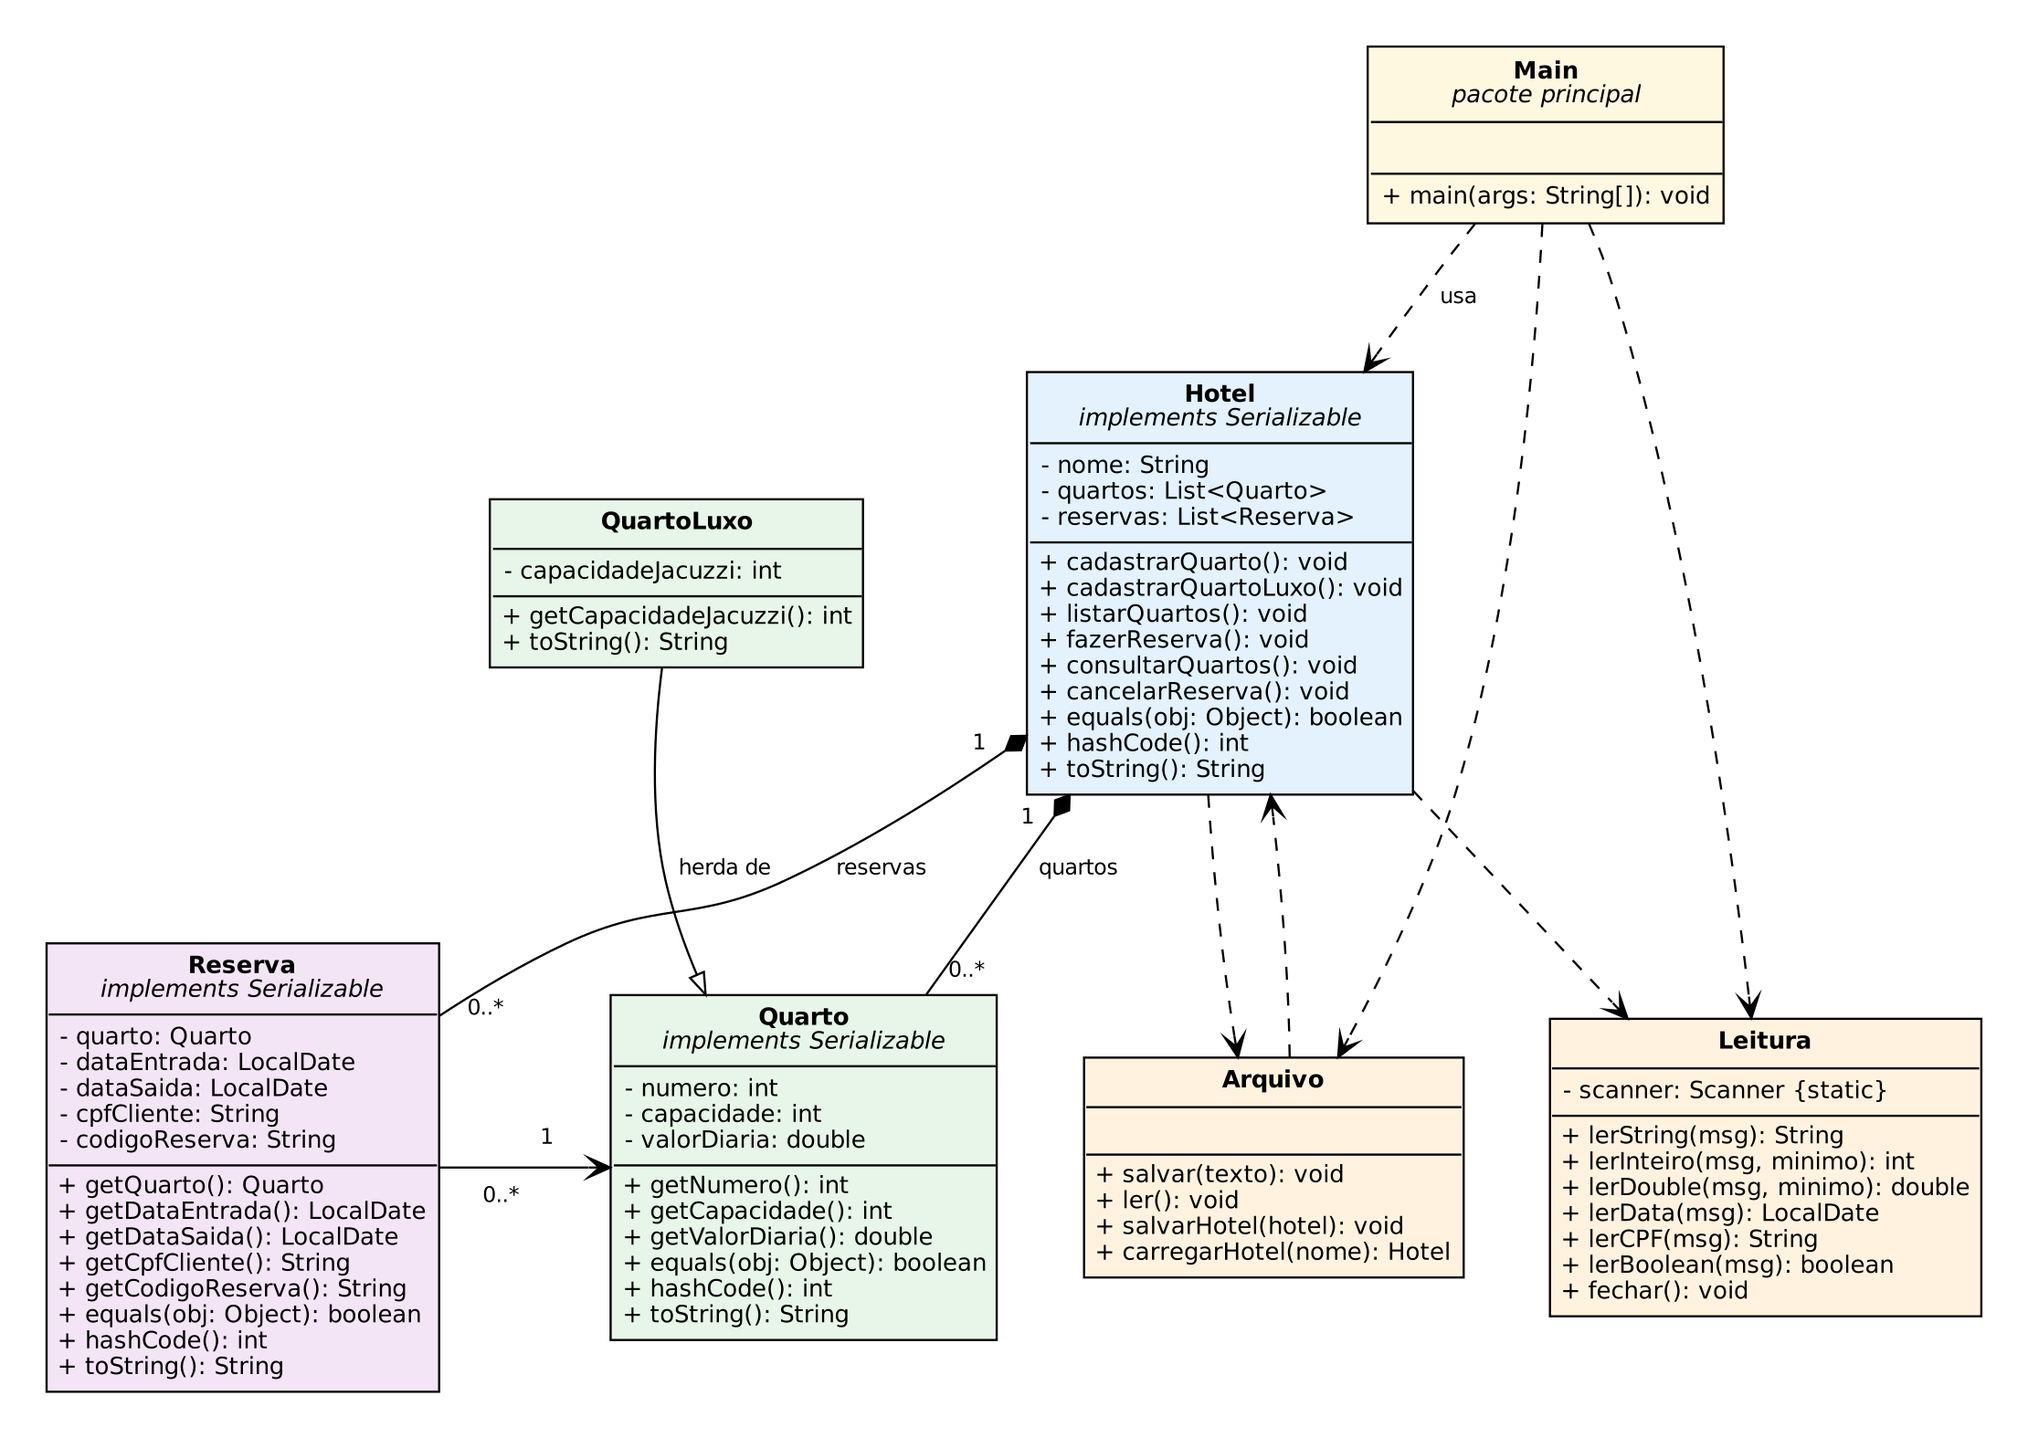
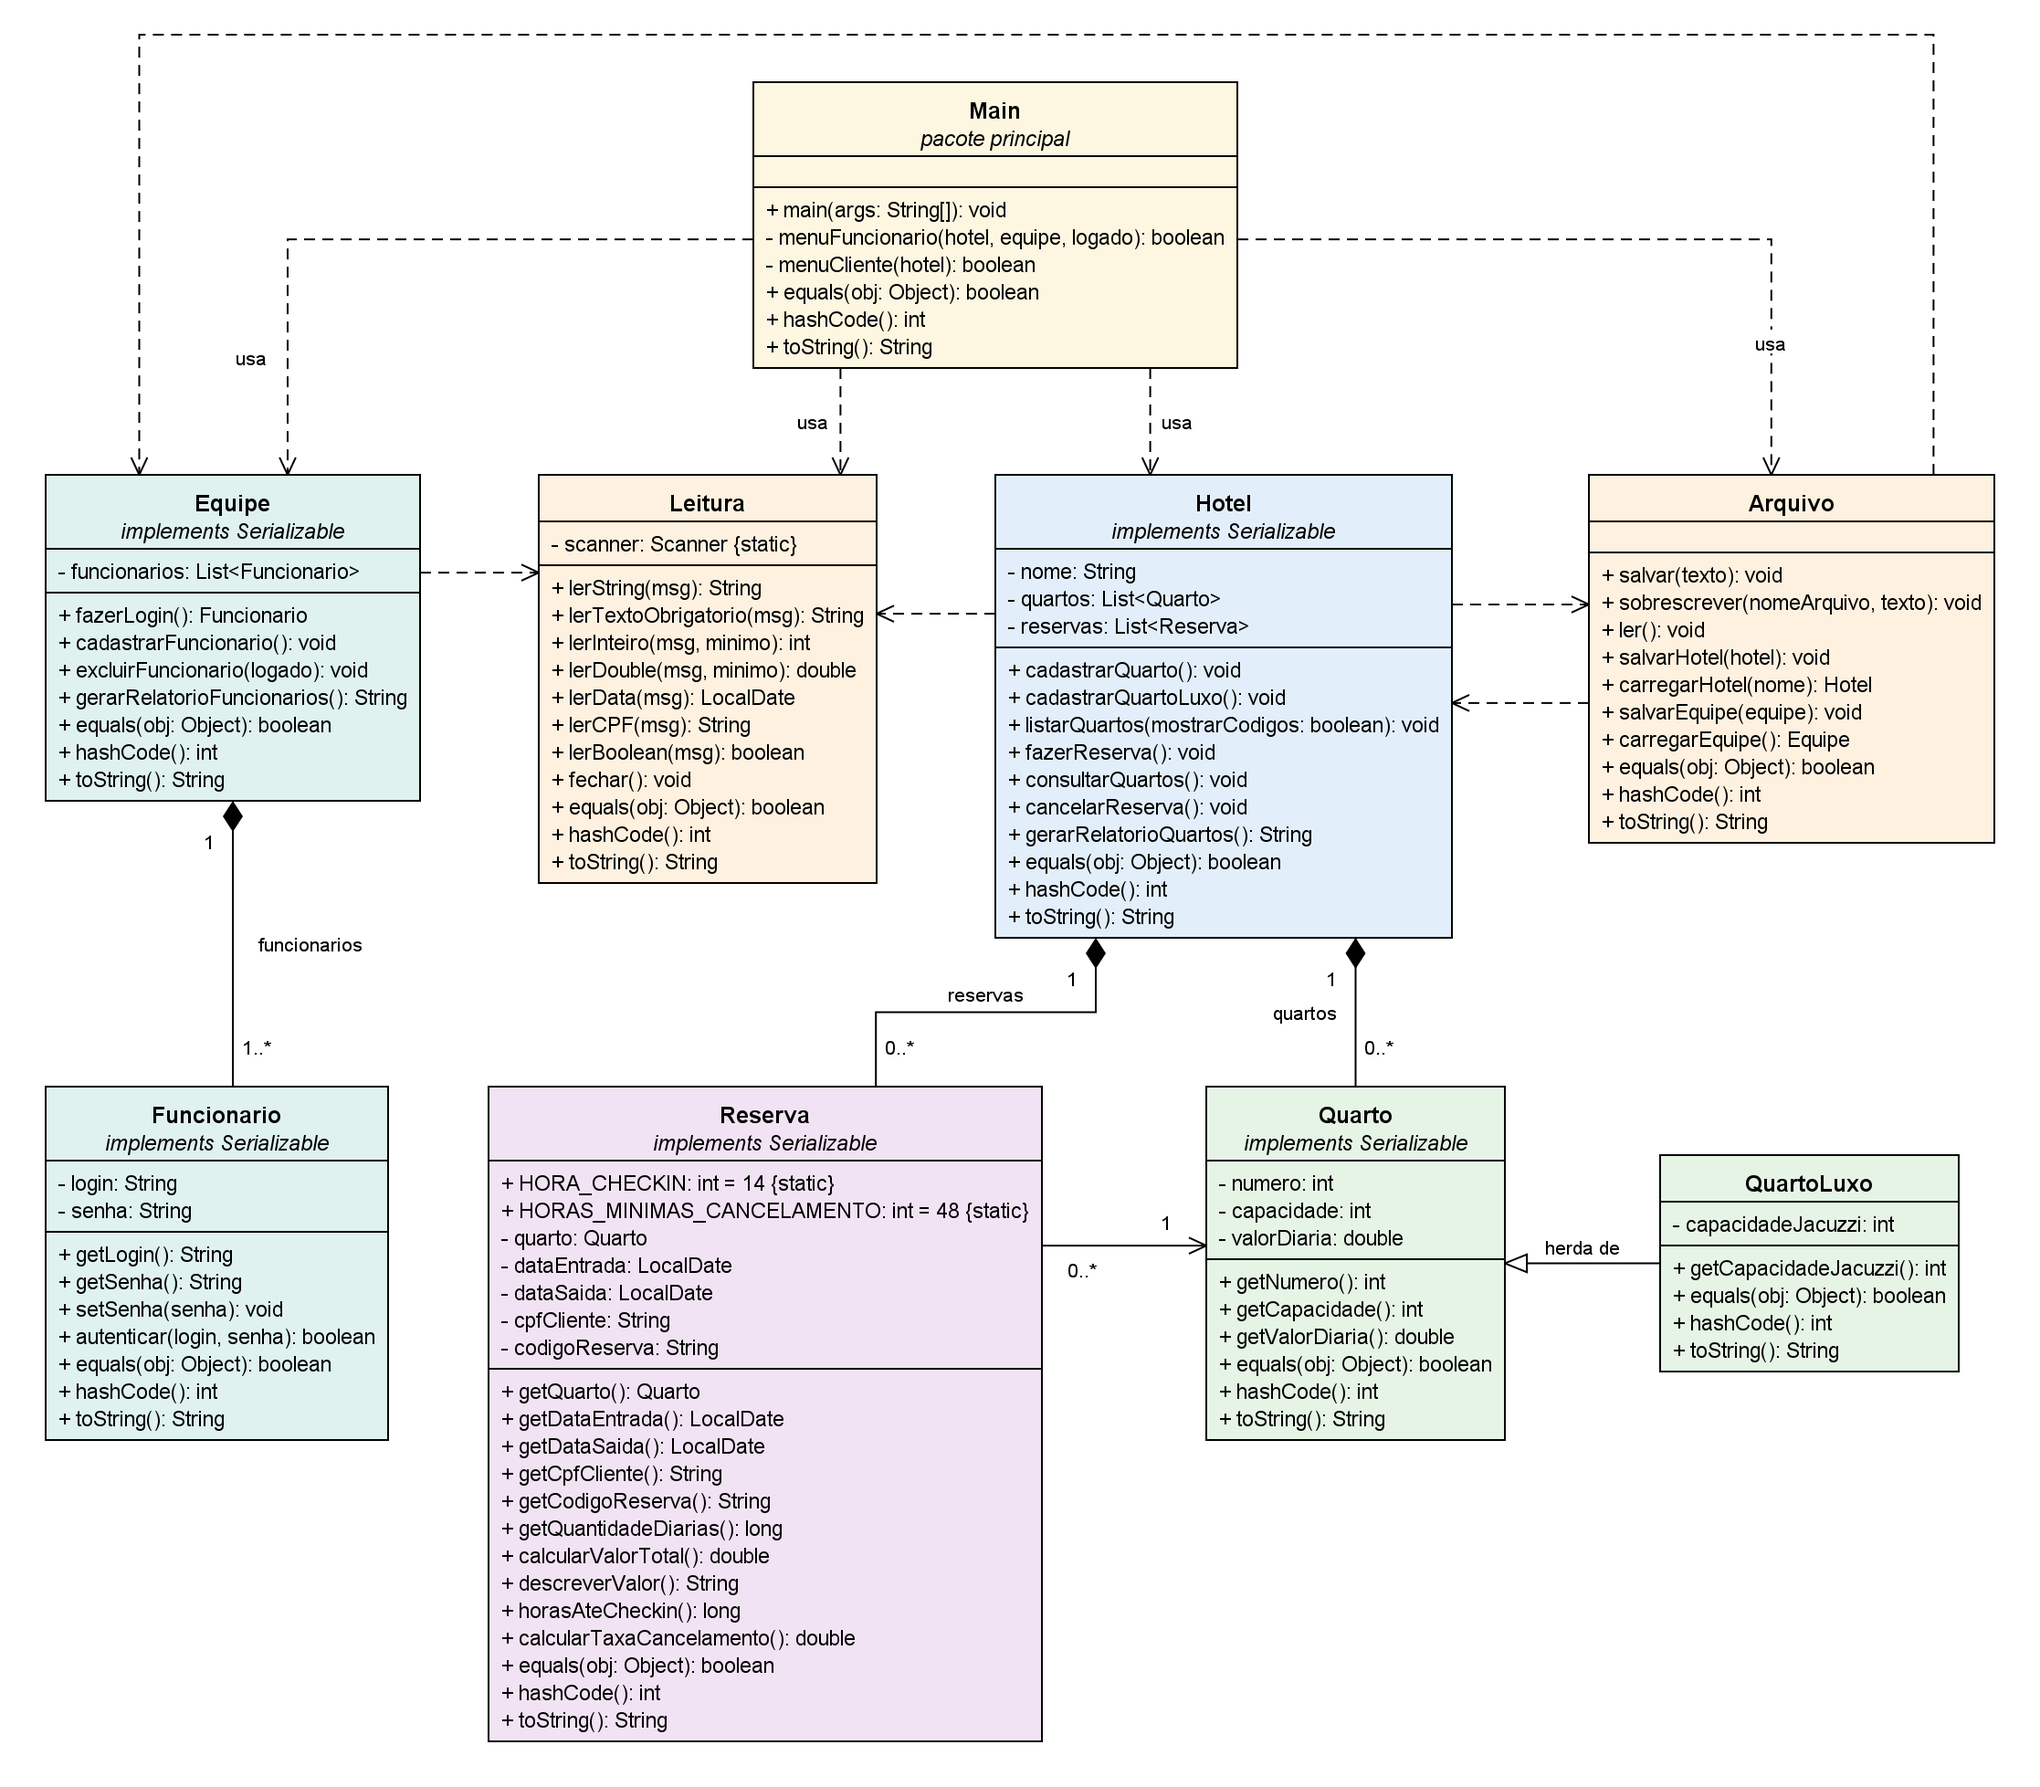
Atualiza README e diagrama de classes

diff --git a/README.md b/README.md
@@ -2,55 +2,95 @@
 
 Projeto de conclusão da disciplina **Linguagem de Programação II (LPII)**.
 
-Aplicação de console desenvolvida em Java e baseada nos princípios da **Programação Orientada a Objetos (POO)**. O sistema tem como objetivo auxiliar a recepção de uma pousada no gerenciamento de quartos e reservas, permitindo cadastros, consultas, listagens e cancelamentos.
+Aplicação de console desenvolvida em Java e baseada nos princípios da **Programação Orientada a Objetos (POO)**. O sistema auxilia uma pousada no gerenciamento de quartos, reservas e funcionários, com áreas separadas para **funcionários** (acesso com login e senha) e **clientes**.
 
 Os dados são armazenados em arquivo e recuperados automaticamente quando o programa é iniciado novamente.
 
 ## Funcionalidades
 
+Ao iniciar, o sistema pergunta se o usuário é funcionário ou cliente:
+
+| Opção | Perfil | Descrição |
+|:---:|---|---|
+| 1 | **Funcionário** | Pede login e senha. Se estiverem corretos, abre o menu do funcionário. |
+| 2 | **Cliente** | Abre o menu do cliente, sem necessidade de login. |
+| 0 | **Sair** | Encerra o programa. |
+
+O sistema já vem com o funcionário padrão **ADMIN**, senha **123**.
+
+### Menu do funcionário
+
 | Opção | Funcionalidade | Descrição |
 |:---:|---|---|
-| 1 | **Cadastrar quarto** | Cadastra quartos comuns ou de luxo, com informações de número, capacidade e valor da diária. Quartos de luxo possuem jacuzzi. |
-| 2 | **Fazer reserva** | Solicita CPF do cliente, número do quarto e datas de entrada e saída. Verifica a disponibilidade e gera um código de reserva de 6 dígitos. |
-| 3 | **Cancelar reserva** | Cancela uma reserva utilizando seu código de identificação. |
-| 4 | **Listar quartos** | Exibe todos os quartos cadastrados e suas respectivas reservas. |
-| 5 | **Consultar quarto** | Apresenta os dados de um quarto específico e todas as suas reservas. |
+| 1 | **Cadastrar quarto** | Cadastra quartos comuns ou de luxo, com número, capacidade e valor da diária. Quartos de luxo possuem jacuzzi. |
+| 2 | **Listar quartos** | Exibe todos os quartos cadastrados, os períodos reservados e os códigos das reservas. |
+| 3 | **Consultar quarto** | Apresenta os dados de um quarto específico e todas as suas reservas, com o valor de cada uma. |
+| 4 | **Cadastrar funcionário** | Cadastra um novo funcionário com login e senha, que passam a dar acesso ao menu do funcionário. |
+| 5 | **Excluir funcionário** | Remove um funcionário após confirmação. |
+| 9 | **Voltar** | Retorna à escolha entre funcionário e cliente. |
+| 0 | **Sair** | Encerra o programa. |
+
+### Menu do cliente
+
+| Opção | Funcionalidade | Descrição |
+|:---:|---|---|
+| 1 | **Fazer reserva** | Solicita CPF, número do quarto e datas de entrada e saída. Verifica a disponibilidade, mostra o valor a pagar e, após a confirmação, gera um código de reserva de 6 dígitos. |
+| 2 | **Cancelar reserva** | Cancela uma reserva a partir do código e do CPF usado na reserva. Pode haver taxa de cancelamento. |
+| 3 | **Ver quartos disponíveis** | Exibe os quartos e os períodos já reservados, sem mostrar os códigos das reservas. |
+| 9 | **Voltar** | Retorna à escolha entre funcionário e cliente. |
 | 0 | **Sair** | Encerra o programa. |
 
 ## Regras de negócio
 
-O sistema implementa as seguintes validações:
+### Quartos e reservas
 
-- O número de cada quarto deve ser único.
+- O número de cada quarto deve ser único, mesmo entre quartos comuns e de luxo.
 - A data de entrada não pode ser anterior à data atual.
 - A data de saída deve ser posterior à data de entrada.
-- Um quarto não pode possuir duas reservas com períodos conflitantes.
+- Um quarto não pode possuir duas reservas com períodos conflitantes. A saída de um hóspede e a entrada de outro podem ocorrer no mesmo dia.
 - As datas informadas devem ser válidas, impedindo entradas como `31/02/2026`.
-- Cada reserva recebe um código de identificação de 6 dígitos.
-- Os quartos podem ser classificados como comuns ou de luxo.
+- O CPF deve ter 11 dígitos e pode ser digitado com ou sem pontos e traço.
+- Cada reserva recebe um código de identificação único de 6 dígitos.
+
+### Valores
+
+- **Valor a pagar** = quantidade de diárias × valor da diária do quarto. A quantidade de diárias é o número de noites entre a entrada e a saída.
+- O valor é exibido antes da confirmação da reserva.
+- **Taxa de cancelamento:** o cancelamento feito com menos de **48 horas** de antecedência do check-in, às **14h do dia da entrada**, tem taxa de **1 diária**. O cliente é avisado da taxa e precisa confirmar o cancelamento.
+
+### Segurança
+
+- O menu do funcionário só é acessado com login e senha válidos. O login não diferencia maiúsculas de minúsculas, mas a senha diferencia.
+- Não é possível cadastrar dois funcionários com o mesmo login.
+- O funcionário **ADMIN** e o funcionário que está logado não podem ser excluídos, garantindo que sempre exista alguém com acesso ao sistema.
+- A reserva só é cancelada se o CPF informado for o mesmo usado na reserva. Em caso de erro, o sistema não informa se foi o código ou o CPF que estava incorreto.
+- O cliente não vê os códigos das reservas na lista de quartos.
+
+### Validação de entradas
+
+Todas as entradas são validadas pela classe `Leitura`. Se o usuário digitar um valor inválido, como texto em um campo numérico, uma data inexistente ou um campo vazio, a pergunta é repetida sem interromper o programa.
 
 ## Estrutura do projeto
 
 ```text
-Sistema-de-Reservas/
+PousadaSoleMar/
 │
 ├── principal/
-│   └── Main.java                  # Menu principal
+│   └── Main.java                  # Escolha de perfil e menus de funcionário e cliente
 │
 ├── funcoes/
-│   ├── Hotel.java                 # Regras e gerenciamento do sistema
+│   ├── Hotel.java                 # Regras e gerenciamento de quartos e reservas
 │   ├── Quarto.java                # Classe de quarto comum
-│   ├── QuartoLuxo.java            # Quarto de luxo (herança)
-│   ├── Reserva.java               # Representação das reservas
+│   ├── QuartoLuxo.java            # Quarto de luxo (herança de Quarto)
+│   ├── Reserva.java               # Reserva, valor a pagar e taxa de cancelamento
+│   ├── Funcionario.java           # Funcionário (login e senha)
+│   ├── Equipe.java                # Lista de funcionários, login, cadastro e exclusão
 │   └── Leitura.java               # Leitura e validação de entradas
 │
 ├── arquivo/
 │   └── Arquivo.java               # Persistência dos dados
 │
-├── docs/
-│   ├── Documentacao_Projeto.pdf   # Requisitos, UML, mockups e Kanban
-│   └── diagrama_de_classes.png    # Diagrama de classes
-│
+├── diagrama_de_classes.png        # Diagrama de classes
 └── README.md
 ```
 
@@ -81,11 +121,21 @@ java -cp out principal.Main
 
 ## Armazenamento de dados
 
-Os dados do sistema são armazenados no arquivo `hotel.dat`, criado automaticamente na pasta a partir da qual o programa é executado.
+Os arquivos são criados automaticamente na pasta a partir da qual o programa é executado.
 
-As informações são recuperadas na inicialização do sistema, permitindo a continuidade do uso mesmo após o encerramento do programa.
+| Arquivo | Conteúdo |
+|---|---|
+| `hotel.dat` | Quartos e reservas, salvos por serialização. Recuperados ao iniciar o sistema. |
+| `funcionarios.dat` | Funcionários cadastrados, salvos por serialização. Recuperados ao iniciar o sistema. |
+| `reservas.txt` | Registro de todas as reservas e cancelamentos, com valores e taxas. |
+| `quartos.txt` | Lista atualizada dos quartos cadastrados. |
+| `funcionarios.txt` | Lista atualizada dos logins e senhas dos funcionários. |
 
-Para iniciar o sistema sem os dados anteriores, basta excluir o arquivo `hotel.dat`.
+Os arquivos `.dat` permitem continuar o uso mesmo após o encerramento do programa. Os arquivos `.txt` servem para consulta e podem ser abertos em qualquer editor de texto.
+
+Para iniciar o sistema sem os dados anteriores, basta excluir os arquivos `.dat`. Sem o `funcionarios.dat`, o sistema volta a ter apenas o funcionário **ADMIN**.
+
+As classes salvas em arquivo possuem um `serialVersionUID` fixo. Assim, alterações no código não impedem a leitura dos dados já salvos.
 
 ## Diagrama de classes
 
